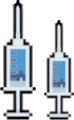
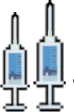
adding difficulty to the game

diff --git a/Obstacle Race/src/race/Race.java b/Obstacle Race/src/race/Race.java
@@ -13,6 +13,7 @@ import java.awt.event.KeyListener;
 
 public class Race implements Game, KeyListener{
 	private int delay;
+	private int initiaVelocity, velocity;
 	private Screen screen;
 	private Character character;
 	Obstacle obstacleTemplates[] = {
@@ -22,7 +23,7 @@ public class Race implements Game, KeyListener{
 			new Obstacle("/media/obstacles/vaccines_small.png"),
 			new Obstacle("/media/obstacles/vaccines_medium.png"),
 			new Obstacle("/media/obstacles/vaccines_wide.png"),
-			//new Obstacle("/media/obstacles/vaccines_large.png")
+			new Obstacle("/media/obstacles/vaccines_large.png")
 	};
 	ArrayBlockingQueue<Obstacle> obstacles;
 		
@@ -31,6 +32,8 @@ public class Race implements Game, KeyListener{
 		
 	Race() {
 		this.delay = 10;
+		this.initiaVelocity = -12;
+		this.velocity = this.initiaVelocity;
 		this.obstacles = new ArrayBlockingQueue<Obstacle>(10);
 		
 		this.character = new Character("/media/Luffy.gif", 80, 280, 20);
@@ -79,15 +82,21 @@ public class Race implements Game, KeyListener{
         			}
         		}, 0, delay);
         
-        timer.scheduleAtFixedRate(new TimerTask() {
-			
-			@Override
-			public void run() {
-				if(characterIsRunning) {
-					updateScore();
-				}
-			}
-		}, 0, 100);
+    	timer.scheduleAtFixedRate(
+        		new TimerTask() {
+        			
+        			@Override
+        			public void run() {
+        				if(characterIsRunning) {
+        					updateScore();
+            				            				
+            				if(character.getScore() % 75 == 0) {
+            					System.out.println("teste");
+            					velocity += -1;            					
+            				}
+        				}
+        			}
+        		}, 0, 100);
     }	
 
 	public boolean thereWasACollision() {
@@ -123,24 +132,28 @@ public class Race implements Game, KeyListener{
 	}
 	
 	public void moveFloor() {
-		int x1 = screen.getFloor1().getX();
-		int x2 = screen.getFloor2().getX();
+		System.out.println(this.velocity);
+
+		screen.getFloor1().setLocation(screen.getFloor1().getX() + this.velocity, screen.getFloor1().getY());
+		screen.getFloor2().setLocation(screen.getFloor2().getX() + this.velocity, screen.getFloor2().getY());
 		
-		screen.getFloor1().setLocation(x1 - 10, screen.getFloor1().getY());
-		screen.getFloor2().setLocation(x2 - 10, screen.getFloor2().getY());
+		//upgraded axes
+		int floor1_x1 = screen.getFloor1().getX();
+		int floor1_x2 = floor1_x1 + screen.getFloor1().getWidth();
 		
-		if(screen.getFloor1().getX() == 0 || screen.getFloor2().getX() == 0) {
-			if(screen.getFloor1().getX() == 0) {
-				screen.getFloor2().setLocation(screen.getFloor1().getWidth(), screen.getFloor2().getY());
-			} else {
-				screen.getFloor1().setLocation(screen.getFloor2().getWidth(), screen.getFloor1().getY());
-			}
+		int floor2_x1 = screen.getFloor2().getX();
+		int floor2_x2 = floor2_x1 + screen.getFloor2().getWidth();
+		
+		if(floor1_x2 <= 0) {
+			screen.getFloor1().setLocation(screen.getFloor2().getX() + screen.getFloor2().getWidth(), screen.getFloor1().getY());
+		} else if(floor2_x2 <= 0) {
+			screen.getFloor2().setLocation(screen.getFloor1().getX() + screen.getFloor1().getWidth(), screen.getFloor2().getY());
 		}
 	}
 	
 	public void moveObstacle() {
 		for(Obstacle obs : obstacles) {
-			obs.getLbImg().setLocation(obs.getLbImg().getX() - 10, obs.getLbImg().getY());
+			obs.getLbImg().setLocation(obs.getLbImg().getX() + this.velocity, obs.getLbImg().getY());
 		}
 	}
 	
@@ -229,6 +242,7 @@ public class Race implements Game, KeyListener{
 		character.getLbImg().setIcon(new ImageIcon(getClass().getResource(character.getImgPath())));
 		character.getLbImg().setBounds(character.getX(), character.getX(), character.getLbImg().getIcon().getIconWidth(), character.getLbImg().getIcon().getIconHeight());
 		character.setScore(0);
+		this.velocity = initiaVelocity;
 	}
 	
 	@Override
